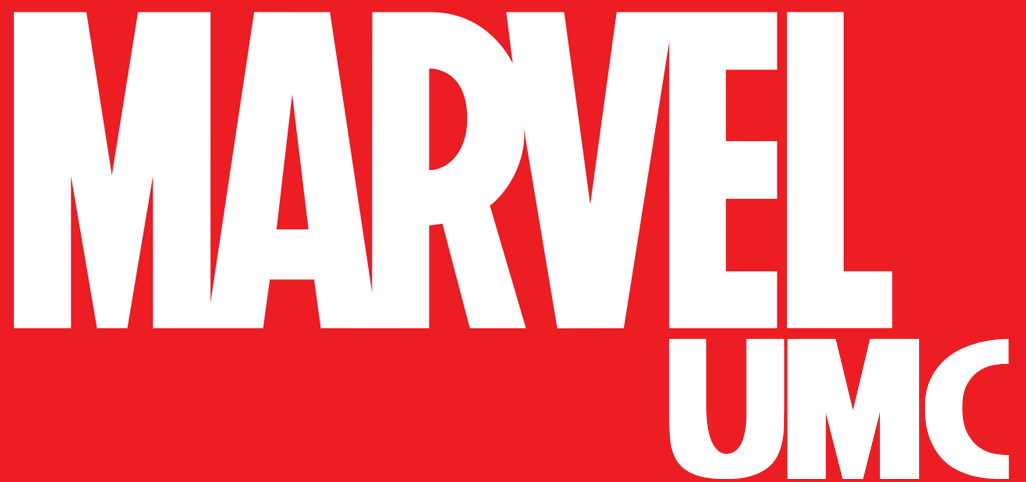
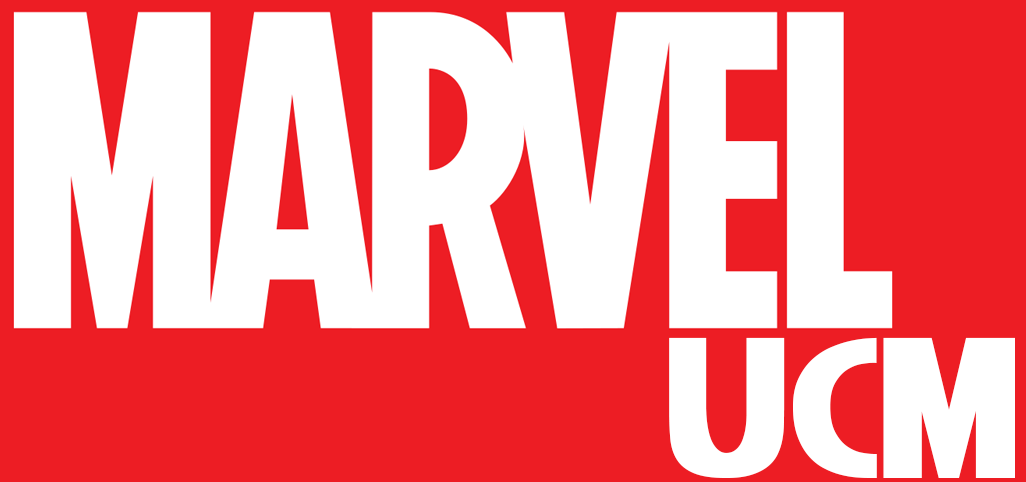
30/04 22:42

Changed region(s): [[0.7173, 0.6846, 0.9981, 0.9959], [0.655, 0.6846, 0.6862, 0.7158]]

diff --git a/filmes.html b/filmes.html
@@ -1,7 +1,7 @@
 <!DOCTYPE html>
 <html>
 	<head>
-		<title>UMC - Filmes</title>
+		<title>UCM - Filmes</title>
 		<meta charset="utf-8">
 		<meta name="viewport" content="width=device-width, initial-scale=1.0">
 		<link rel="stylesheet" type="text/css" href="style.css">
@@ -15,39 +15,117 @@
 					<li><p><a href="Index.html">Home</a></p></li>
 					<li><p>Personagens<p></li>
 					<li><p>Cronologia<p></li>
-					<li><p>Filmes<p></li>
+					<li><p><a href="#">Filmes</a><p></li>
 				</ul>
 			</div>
 		</header>
 		<section>
-			<div id="corpo">
-				<h1>Filmes</h1>
-				<div id="filmes">
+			<div id="filmes">
+				<h1>Filmes (ordem cronológica)</h1>
+				<h1>• 2008</h1>
 					<figure>
 						<img src="filmes\homem-de-ferro-2008.jpg"/>
-						<p class="fig">Tony Stark é um bilionário e inventor brilhante que realiza testes bélicos no exterior, mas é sequestrado por terroristas que o forçam a construir uma arma devastadora. Em vez disso, ele constrói uma armadura e enfrenta seus sequestradores. Ao voltar para os EUA, Stark aprimora e utiliza a armadura para combater o crime.</p>
+						<p class="fig"><span>Homem de Ferro</span></br>Tony Stark é um bilionário inventor que realiza testes bélicos no exterior, mas é sequestrado por terroristas que o forçam a construir uma arma devastadora. Em vez disso, ele constrói uma armadura e enfrenta seus sequestradores. Ao voltar para os EUA, Stark aprimora e utiliza a armadura para combater o crime.</p>
 					</figure>
 					<figure>
 						<img src="filmes\hulk-2008.jpg"/>
-						<p class="fig">O cientista Bruce Banner se esconde no Brasil enquanto busca desesperadamente a cura da mutação que o transforma em um monstro incontrolável. Porém, durante este processo, ele tem que lutar contra um novo inimigo que quer capturá-lo, conhecido como "O Abominável".</p>
-					</figure>
+						<p class="fig"><span>O Incrivel Hulk</span></br>O cientista Bruce Banner se esconde no Brasil enquanto busca desesperadamente a cura da mutação que o transforma em um monstro incontrolável. Porém, durante este processo, ele tem que lutar contra um novo inimigo que quer capturá-lo, conhecido como "O Abominável".</p>
+					</figure></br></br></br></br></br></br></br></br></br></br></br></br></br></br></br></br></br></br></br>
+				<h1>• 2010</h1>
 					<figure>
-						<img src="filmes\homem-de-ferro-2009.jpg"/>
-						<p class="fig">Em um mundo ciente da existência do Homem de Ferro, o inventor bilionário Tony Stark sofre pressão de todos os lados para compartilhar sua tecnologia com as forças armadas. Ele resiste para divulgar os segredos de sua inigualável armadura, com medo de que estas informações caiam nas mãos erradas.</p>
-					</figure>
+						<img src="filmes\homem-de-ferro-2010.jpeg"/>
+						<p class="fig"><span>Homem de Ferro 2</span></br>Em um mundo ciente da existência do Homem de Ferro, o inventor bilionário Tony Stark sofre pressão de todos os lados para compartilhar sua tecnologia com as forças armadas. Ele resiste para divulgar os segredos de sua inigualável armadura, com medo de que estas informações caiam nas mãos erradas.</p>
+					</figure></br></br></br></br></br></br></br></br></br></br></br></br></br></br></br></br></br></br></br>
+				<h1>• 2011</h1>
 					<figure>
 						<img src="filmes\thor-2011.jpg"/>
-						<p class="fig">Como filho de Odin, rei dos deuses nórdicos, Thor logo herdará o trono de Asgard de seu idoso pai. Porém, no dia de sua coroação, Thor reage com brutalidade quando os inimigos dos deuses entram no palácio violando o tratado. Como punição, Odin manda Thor para a Terra. </p>
+						<p class="fig"><span>Thor</span></br>Como filho de Odin, rei dos deuses nórdicos, Thor logo herdará o trono de Asgard de seu idoso pai. Porém, no dia de sua coroação, Thor reage com brutalidade quando os inimigos dos deuses entram no palácio violando o tratado. Como punição, Odin manda Thor para a Terra. </p>
 					</figure>
 					<figure>
 						<img src="filmes\ca-2011.jpg"/>
-						<p class="fig"></p>
+						<p class="fig"><span>Capitão América -</br>O Primeiro Vingador</span></br>Steve Rogers é um jovem que participa de experiências visando a criação do supersoldado americano. Quando os oficiais militares conseguem transformá-lo em uma arma humana, eles percebem que não podem arriscar a vida do jovem nas batalhas de guerra.</p>
+					</figure></br></br></br></br></br></br></br></br></br></br></br></br></br></br></br></br></br></br></br>
+				<h1>• 2012</h1>
+					<figure>
+						<img src="filmes\avengers-2012.jpg"/>
+						<p class="fig"><span>Os Vingadores</span></br>Loki, o irmão de Thor, ganha acesso ao poder do cubo cósmico ao roubá-lo de dentro das instalações da S.H.I.E.L.D. Nick Fury, o diretor desta agência internacional que mantém a paz, reúne os únicos super-heróis que serão capazes de defender a Terra de ameaças sem precedentes: Homem de Ferro, Capitão América, Hulk, Thor, Viúva Negra e Gavião Arqueiro.</p>
+					</figure></br></br></br></br></br></br></br></br></br></br></br></br></br></br></br></br></br></br></br>
+				<h1>• 2013</h1>
+					<figure>
+						<img src="filmes\homem-de-ferro-2013.jpg"/>
+						<p class="fig"><span>Homem de Ferro 3</span></br>Depois de um inimigo reduzir o mundo de Tony Stark a destroços, o Homem de Ferro precisa aprender a confiar em seus instintos para proteger aqueles que ama, especialmente sua namorada, e lutar contra seu maior medo: o fracasso.</p>
 					</figure>
-				</div>
+					<figure>
+						<img src="filmes\thor-2013.jpg"/>
+						<p class="fig"><span>Thor</br>O Mundo Sombrio</span></br>Thor precisa contar com a ajuda de seus companheiros e até de seu traiçoeiro irmão Loki em um plano audacioso para salvar o universo. Entretanto, os caminhos de Thor se cruzam com Jane Foster e, dessa vez, a vida dela está realmente em perigo.</p>
+					</figure></br></br></br></br></br></br></br></br></br></br></br></br></br></br></br></br></br></br></br>
+				<h1>• 2014</h1>
+					<figure>
+						<img src="filmes\ca-2014.jpg"/>
+						<p class="fig"><span>Capitão América -</br>O Soldado Invernal</span></br>Após os eventos catastróficos em Nova York com Os Vingadores, Steve Rogers, também conhecido como Capitão América, segue tentando se ajustar ao mundo moderno. Porém, quando um colega da agência S.H.I.E.L.D. é atacado, Steve se vê preso em uma rede de intrigas que ameaça colocar o mundo em risco.</p>
+					</figure>
+					<figure>
+						<img src="filmes\gdg-2014.jpg"/>
+						<p class="fig"><span>Guardiões da Galáxia</span></br>O aventureiro do espaço Peter Quill torna-se presa de caçadores de recompensas depois que rouba a esfera de um vilão traiçoeiro, Ronan. Para escapar do perigo, ele faz uma aliança com um grupo de quatro extraterrestres. </p>
+					</figure></br></br></br></br></br></br></br></br></br></br></br></br></br></br></br></br></br></br></br>
+				<h1>• 2015</h1>
+					<figure>
+						<img src="filmes\avengers-2015.jpg"/>
+						<p class="fig"><span>Os Vingadores -</br>A Era de Ultron</span></br>Ao tentar proteger o planeta de ameaças, Tony Stark constrói um sistema de inteligência artificial que cuidaria da paz mundial. O projeto acaba dando errado e gera o nascimento do Ultron. Com o destino da Terra em jogo, os Vingadores terão que se unir para mais uma vez salvar a raça humana da extinção.</p>
+					</figure>
+					<figure>
+						<img src="filmes\homem-formiga-2015.jpg"/>
+						<p class="fig"><span>Homem-Formiga</span></br>Forçado a sair de sua própria empresa, Dr. Hank Pym transforma um talentoso ladrão em Homem-Formiga para impedir que seu antigo pupilo consiga replicar a fórmula da roupa que dá o poder do encolhimento, força sobre-humana e a capacidade de controlar um exército de formigas.</p>
+					</figure></br></br></br></br></br></br></br></br></br></br></br></br></br></br></br></br></br></br></br>
+				<h1>• 2016</h1>
+					<figure>
+						<img src="filmes\ca-2016.jpg"/>
+						<p class="fig"><span>Capitão América -</br>Guerra Cívil</span></br>O ataque de Ultron faz com que os políticos decidam controlar os Vingadores, já que seus atos afetam toda a humanidade. Tal decisão coloca o Capitão América em rota de colisão com o Homem de Ferro.</p>
+					</figure>
+					<figure>
+						<img src="filmes\doutor-estranho-2016.jpg"/>
+						<p class="fig"><span>Doutor Estranho</span></br>Após sua carreira ser destruída, um brilhante, porém arrogante, cirurgião ganha uma nova chance em sua vida quando um feiticeiro o treina para se tornar o Mago Supremo.</p>
+					</figure></br></br></br></br></br></br></br></br></br></br></br></br></br></br></br></br></br></br></br>
+				<h1>• 2017</h1>
+					<figure>
+						<img src="filmes\gdg-2017.jpg"/>
+						<p class="fig"><span>Guardiões da Galáxia 2</span></br>Os Guardiões precisam lutar para manter sua recém descoberta família unida, enquanto descobrem os mistérios sobre o verdadeiro pai de Peter Quill.</p>
+					</figure>
+					<figure>
+						<img src="filmes\homem-aranha-2017.jpg"/>
+						<p class="fig"><span>Homem-Aranha -</br>De Volta ao Lar</span></br>Depois de atuar ao lado dos Vingadores, chegou a hora do pequeno Peter Parker voltar para casa e para a sua vida, já não mais tão normal. Lutando diariamente contra pequenos crimes nas redondezas, ele pensa ter encontrado a missão de sua vida quando o terrível vilão Abutre surge amedrontando a cidade.</p>
+					</figure>
+					<figure>
+						<img src="filmes\thor-2017.jpg"/>
+						<p class="fig"><span>Thor - Ragnarok</span></br>Thor está preso do outro lado do universo. Ele precisa correr contra o tempo para voltar a Asgard e parar Ragnarok, a destruição de seu mundo, que está nas mãos da poderosa e implacável vilã Hela.</p>
+					</figure></br></br></br></br></br></br></br></br></br></br></br></br></br></br></br></br></br></br></br>
+				<h1>• 2018</h1>
+					<figure>
+						<img src="filmes\pantera-negra-2018.jpg"/>
+						<p class="fig"><span>Pantera Negra</span></br>Conheça a história de T'Challa, príncipe do reino de Wakanda, que perde o seu pai e viaja para os Estados Unidos, onde tem contato com os Vingadores. Entre as suas habilidades estão a velocidade, inteligência e os sentidos apurados.</p>
+					</figure>
+					<figure>
+						<img src="filmes\avengers-2018.jpg"/>
+						<p class="fig"><span>Os Vingadores -</br>Guerra Infinita</span></br>Homem de Ferro, Thor, Hulk e os Vingadores se unem para combater seu inimigo mais poderoso, o maligno Thanos. Em uma missão para coletar todas as seis pedras infinitas, Thanos planeja usá-las para infligir sua vontade maléfica sobre a realidade.</p>
+					</figure>
+					<figure>
+						<img src="filmes\homem-formiga-2018.jpg"/>
+						<p class="fig"><span>Homem-Formiga e a Vespa</span></br>Scott Lang lida com as consequências de suas escolhas tanto como super-herói quanto como pai. Enquanto tenta reequilibrar sua vida com suas responsabilidades como o Homem-Formiga, ele é confrontado por Hope van Dyne e Dr. Hank Pym com uma nova missão urgente.</p>
+					</figure></br></br></br></br></br></br></br></br></br></br></br></br></br></br></br></br></br></br></br>
+				<h1>• 2019</h1>
+					<figure>
+						<img src="filmes\cm-2019.jpg"/>
+						<p class="fig"><span>Capitã Marvel</span></br>A Capitã Marvel se envolve em uma guerra galáctica entre duas raças alienígenas.</p>
+					</figure>
+					<figure>
+						<img src="filmes\avengers-2019.jpg"/>
+						<p class="fig"><span>Os Vingadores -</br>Ultimato</span></br>Após Thanos eliminar metade das criaturas vivas, os Vingadores têm de lidar com a perda de amigos e entes queridos. Com Tony Stark vagando perdido no espaço sem água e comida, Steve Rogers e Natasha Romanov lideram a resistência contra o titã louco.</p>
+					</figure>
 			</div>
 		</section>
 		<footer>
 			<div id="rodape">
+				<p id="pr1">Site criado para fins educativos</br>Copyright &copy; 2019</p>
 			</div>
 		<footer>
 	</body>

diff --git a/style.css b/style.css
@@ -5,6 +5,15 @@
 body {
 	margin:0;
 	padding:0;
+	background-color:#161616
+}
+h1 {
+	/*font-family: Century Gothic, sans-serif;*/
+	font-family: Comic Sans MS, sans-serif;
+	font-size:20pt;
+	margin: 15px 50px 0px 50px;
+	padding-top:20px;
+	color: white;
 }
 #cabecalho {
 	width:100%;
@@ -48,11 +57,19 @@ body {
 #cabecalho li:hover a{
 	padding-bottom:9px;
 }
+#filmes {
+	width:80%;
+	height:4650px;
+	box-shadow: 0px 0px 10px rgba(0,0,0,0.5);
+	margin:50px auto 0px auto;
+	background-color:#232323;
+}
 #corpo {
 	width:80%;
 	height:1000px;
 	box-shadow: 0px 0px 10px rgba(0,0,0,0.5);
 	margin:50px auto 0px auto;
+	background-color:#232323;
 }
 #corpo p {
 	font-family: Consolas, sans-serif;
@@ -61,18 +78,6 @@ body {
 	margin:0px 50px 50px 50px;
 	text-indent:1.25cm;
 }
-#corpo h1 {
-	font-family: 'Marvel', sans-serif;
-	font-size:20pt;
-	margin:50px 50px 15px 50px;
-	padding-top:50px;
-}
-/*#corpo img {
-	width:202px;
-	height:300px;
-	margin-left:49px;
-	margin-bottom:49px;
-}*/
 #rodape {
 	width:100%;
 	height:80px;
@@ -80,22 +85,21 @@ body {
 	background-color:#ed1d24;
 }
 
-div#corpo figure {
+#filmes figure {
 	position:relative;
-	width:202px;
+	width:20%;
 	height:300px;
 	border: 1px solid white;	
 	box-shadow: 1px 1px 4px black;
 	float:left;
-	margin:3%;
+	margin-right:0;
 }
-div#corpo figure img {
+#filmes figure img {
 	width:100%;
 	height:100%;
-	margin:0;
-	transition: opacity 0.5s
+	transition: opacity 0.5s;
 }
-div#corpo figure p.fig {
+#filmes figure p.fig {
 	position: absolute;
 	top:0;
 	width:100%;
@@ -105,14 +109,30 @@ div#corpo figure p.fig {
 	text-align:center;
 	font-family:Consolas, sans-serif;
 	font-size:90%;
-	text-indent:0.5cm;
+	text-indent:0;
 	margin:5px 0px 0px 0px;
 	padding:5px;
 	box-sizing: border-box;
+	color:white;
 }
-div#corpo figure:hover p.fig {
+#filmes span {
+	font-weight:bold;
+	color:red;
+}
+#filmes figure:hover p.fig {
 	display:inline-block;;
 }
-div#corpo figure:hover img {
+#filmes figure:hover img {
 	opacity:0.2;
+}
+#rodape {
+	position:relative;
+}
+#pr1 {
+	text-align:center;
+	position:absolute;
+	width:100%;
+	font-family:Consolas;
+	top:5px;
+	color:white;
 }

diff --git a/persons.html b/persons.html
@@ -1,7 +1,7 @@
 <!DOCTYPE html>
 <html>
 	<head>
-		<title>UMC - Personagens</title>
+		<title>UCM - Personagens</title>
 		<meta charset="utf-8">
 		<meta name="viewport" content="width=device-width, initial-scale=1.0">
 		<link rel="stylesheet" type="text/css" href="style.css">
@@ -15,7 +15,7 @@
 					<li><p><a href="Index.html">Home</a></p></li>
 					<li><p>Personagens<p></li>
 					<li><p>Cronologia<p></li>
-					<li><p>Filmes<p></li>
+					<li><p><a href="filmes.html">Filmes</a><p></li>
 				</ul>
 			</div>
 		</header>
@@ -26,6 +26,7 @@
 		</section>
 		<footer>
 			<div id="rodape">
+				<p id="pr1">Site criado para fins educativos</br>Copyright &copy; 2019</p>
 			</div>
 		<footer>
 	</body>

diff --git a/Index.html b/Index.html
@@ -1,7 +1,7 @@
 <!DOCTYPE html>
 <html>
 	<head>
-		<title>UMC - Home</title>
+		<title>UCM - Home</title>
 		<meta charset="utf-8">
 		<meta name="viewport" content="width=device-width, initial-scale=1.0">
 		<link rel="stylesheet" type="text/css" href="style.css">
@@ -15,7 +15,7 @@
 					<li><p><a href="#">Home</a></p></li>
 					<li><p>Personagens<p></li>
 					<li><p>Cronologia<p></li>
-					<li><p>Filmes<p></li>
+					<li><p><a href="filmes.html">Filmes</a><p></li>
 				</ul>
 			</div>
 		</header>
@@ -27,7 +27,7 @@
 		</section>
 		<footer>
 			<div id="rodape">
-			
+				<p id="pr1">Site criado para fins educativos</br>Copyright &copy; 2019</p>
 			</div>
 		<footer>
 	</body>
